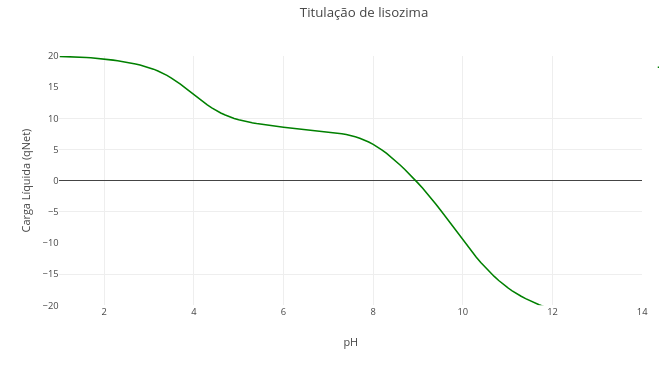
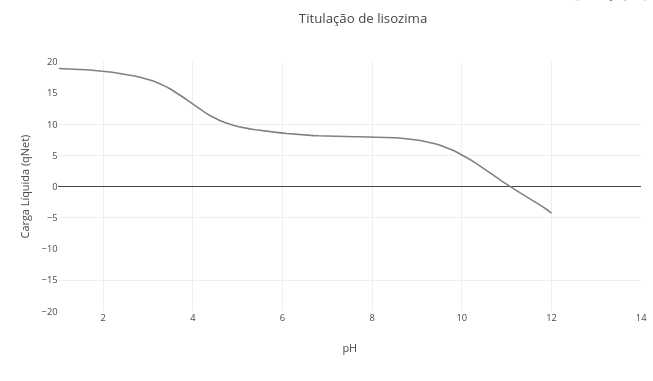
l

diff --git a/_site/en/nivel/superior/jsplotly/Eq/jsp_pI.html b/_site/en/nivel/superior/jsplotly/Eq/jsp_pI.html
@@ -573,7 +573,9 @@ var codigoPadrao =
 const qB = [-1, 0, -1, -1, 0, -1, -1, 0, 0];               // Valor de pKa dos grupos ionizáveis
 const pKa = [2.2, 9.6, 3.9, 4.1, 6.0, 8.5, 10.1, 10.8, 12.5];         // ("aCOOH","aNH3","Asp","Glu","His","Cys","Tyr","Lys","Arg")
 
-const n = [1,9,7,3,1,8,6,5,5] // quantitativo de cada AA
+// ("aCOOH","aNH3","Asp","Glu","His","Cys","Tyr","Lys","Arg")
+const n = [1, 1, 7, 2, 1, 0, 3, 6, 11];  // HEWL (lysozima de clara de ovo)
+
 
 // Função para calcular a carga líquida (qNet)
 

diff --git a/_site/pt/nivel/superior/jsplotly/Eq/jsp_pI.html b/_site/pt/nivel/superior/jsplotly/Eq/jsp_pI.html
@@ -573,7 +573,9 @@ var codigoPadrao =
 const qB = [-1, 0, -1, -1, 0, -1, -1, 0, 0];               // Valor de pKa dos grupos ionizáveis
 const pKa = [2.2, 9.6, 3.9, 4.1, 6.0, 8.5, 10.1, 10.8, 12.5];         // ("aCOOH","aNH3","Asp","Glu","His","Cys","Tyr","Lys","Arg")
 
-const n = [1,9,7,3,1,8,6,5,5] // quantitativo de cada AA
+// ("aCOOH","aNH3","Asp","Glu","His","Cys","Tyr","Lys","Arg")
+const n = [1, 1, 7, 2, 1, 0, 3, 6, 11];  // HEWL (lysozima de clara de ovo)
+
 
 // Função para calcular a carga líquida (qNet)
 

diff --git a/en/nivel/superior/jsplotly/Eq/jsp_pI.html b/en/nivel/superior/jsplotly/Eq/jsp_pI.html
@@ -573,7 +573,9 @@ var codigoPadrao =
 const qB = [-1, 0, -1, -1, 0, -1, -1, 0, 0];               // Valor de pKa dos grupos ionizáveis
 const pKa = [2.2, 9.6, 3.9, 4.1, 6.0, 8.5, 10.1, 10.8, 12.5];         // ("aCOOH","aNH3","Asp","Glu","His","Cys","Tyr","Lys","Arg")
 
-const n = [1,9,7,3,1,8,6,5,5] // quantitativo de cada AA
+// ("aCOOH","aNH3","Asp","Glu","His","Cys","Tyr","Lys","Arg")
+const n = [1, 1, 7, 2, 1, 0, 3, 6, 11];  // HEWL (lysozima de clara de ovo)
+
 
 // Função para calcular a carga líquida (qNet)
 

diff --git a/pt/nivel/superior/jsplotly/Eq/jsp_pI.html b/pt/nivel/superior/jsplotly/Eq/jsp_pI.html
@@ -573,7 +573,9 @@ var codigoPadrao =
 const qB = [-1, 0, -1, -1, 0, -1, -1, 0, 0];               // Valor de pKa dos grupos ionizáveis
 const pKa = [2.2, 9.6, 3.9, 4.1, 6.0, 8.5, 10.1, 10.8, 12.5];         // ("aCOOH","aNH3","Asp","Glu","His","Cys","Tyr","Lys","Arg")
 
-const n = [1,9,7,3,1,8,6,5,5] // quantitativo de cada AA
+// ("aCOOH","aNH3","Asp","Glu","His","Cys","Tyr","Lys","Arg")
+const n = [1, 1, 7, 2, 1, 0, 3, 6, 11];  // HEWL (lysozima de clara de ovo)
+
 
 // Função para calcular a carga líquida (qNet)
 
